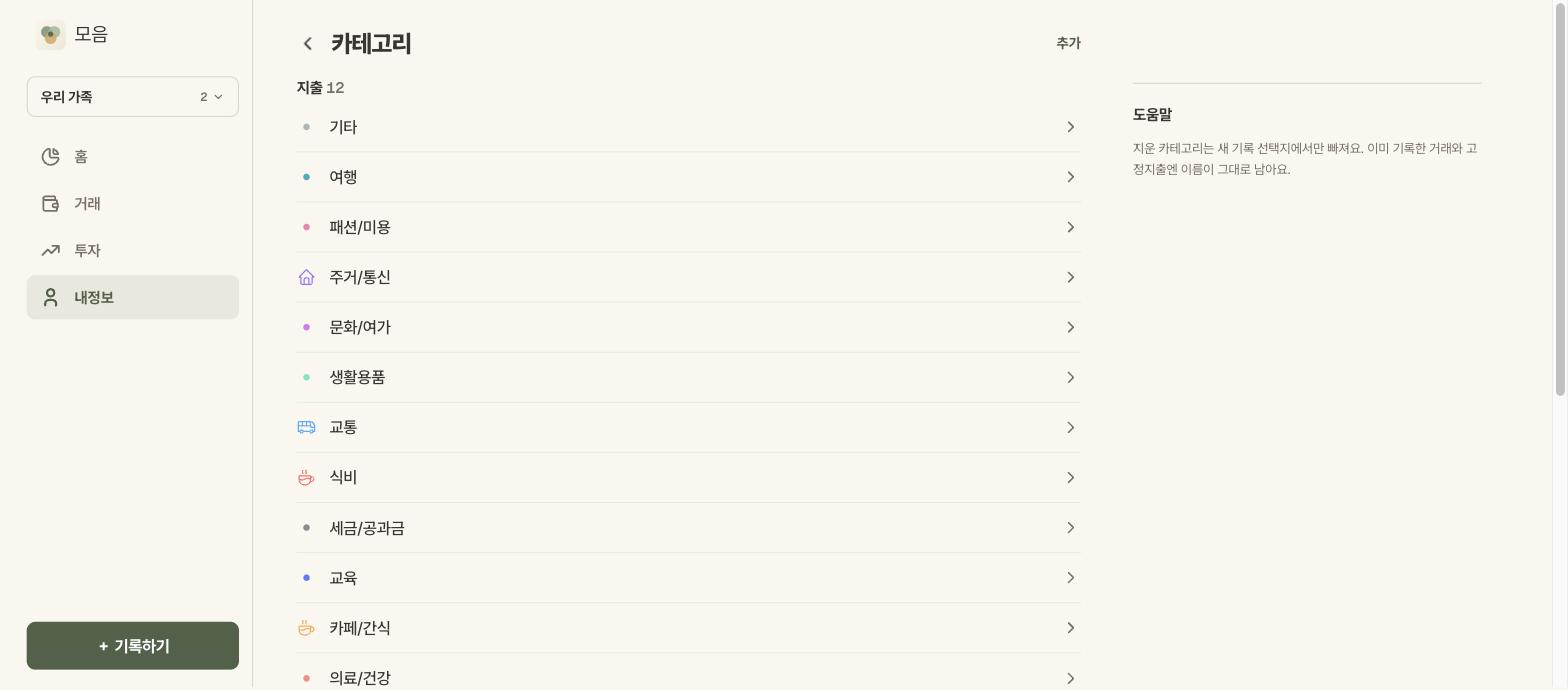
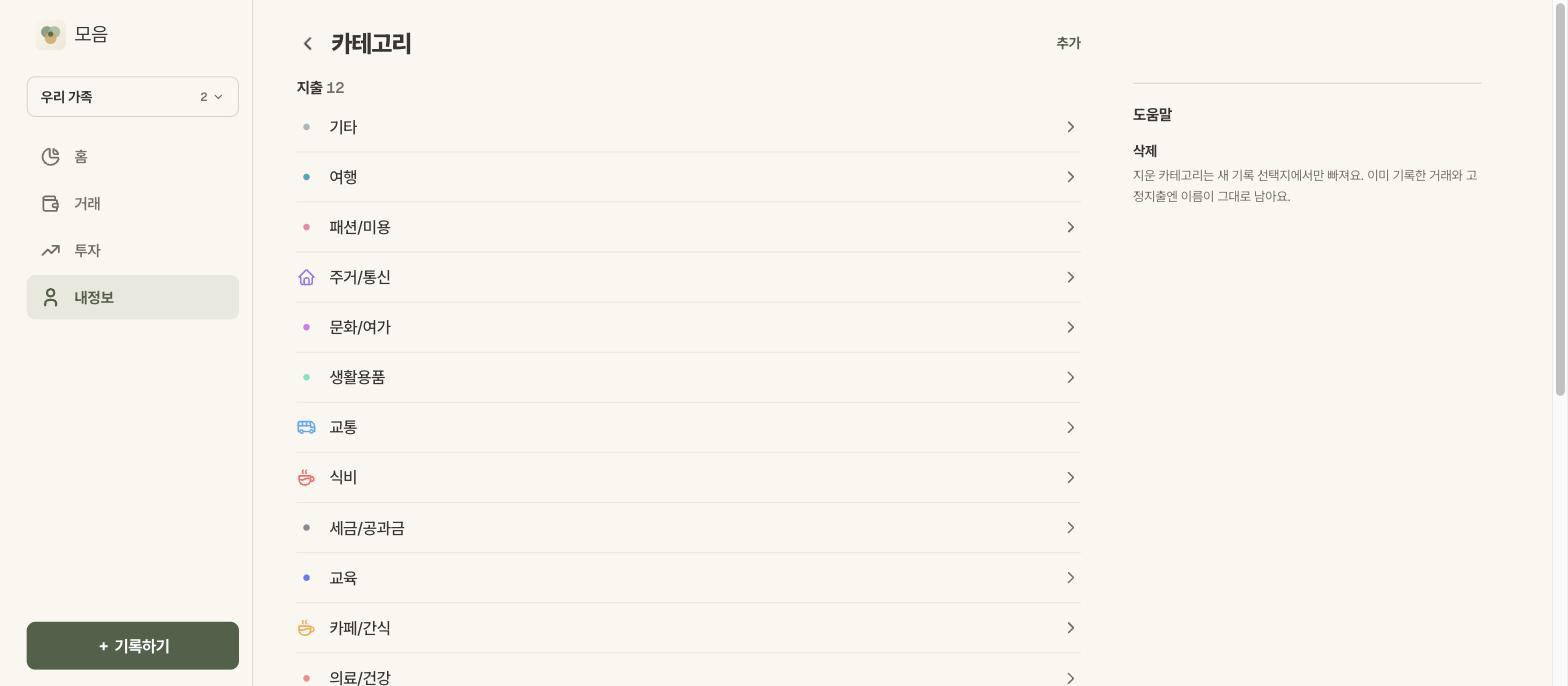
fix: 고정지출 요약 실패에도 목록을 남기고 월 연타가 빠지지 않게
배치4 S6 감사(Codex · 서브에이전트) 반영.
- 월 요약은 hero·레일만 SectionBoundary, 행은 같은 캐시를 비-Suspense 로 읽어
  요약이 늦거나 실패해도 수정 진입이 남는다. 경계는 선택 월이 바뀌면 실패를 푼다(resetKey)
- 월은 즉시 바꾸고 요약은 useDeferredValue — 연타가 이전 값 기준으로 겹치지 않고, 새 달 전엔 흐리게
- 관리 목록 한 페이지 100 — 개수·분류 섹션·기록/미기록이 불러온 페이지 기준으로 어긋나지 않게
- 행 앞 글리프 stroke 2(DESIGN §4) · aria-hidden, 도움말 레일 aside, 카테고리 레일도 FormGuide
- 고정지출 행 chevron, 미기록 0 초과는 본문색, 뒤로 = 내정보, en "Fixed in {month}"

diff --git a/src/_sections/fixed/fixed-section.tsx b/src/_sections/fixed/fixed-section.tsx
@@ -1,9 +1,10 @@
 "use client";
 
 import { Box, Stack, Text } from "@mantine/core";
-import { useSuspenseQuery } from "@tanstack/react-query";
+import { keepPreviousData, useQuery, useSuspenseQuery } from "@tanstack/react-query";
+import { useParams } from "next/navigation";
 import { useTranslations } from "next-intl";
-import { useState, useTransition } from "react";
+import { useDeferredValue, useState } from "react";
 
 import { queryKeys } from "_constants/queries";
 import AccentLink from "_features/common/components/accent-link";
@@ -28,10 +29,12 @@ import { fmt } from "_utilities/fmt";
 /**
  * 고정지출 관리 (plan/4.md, Figma 67:1285) — 선택 월 사용 합계 hero + 행마다 이번 달 사용액.
  * 백엔드 고정지출엔 예정 금액이 없어(이름·결제일·카테고리만) 예정 합계는 두지 않는다.
- * 월 요약은 보조 조회라 SectionBoundary 로 감싸고, 월 이동은 transition 으로 이전 화면을 유지한다.
+ * 월 요약은 보조 조회 — hero·레일만 SectionBoundary 로 감싸고, 행(수정 진입)은 요약이 늦거나 실패해도 남긴다.
  */
 export default function FixedSection() {
   const t = useTranslations("fixed");
+  const monthLabel = useMonthLabel();
+  const { locale } = useParams<{ locale: string }>();
   const { items, hasNextPage, fetchNextPage, isFetchingNextPage } = useFixedSearch();
 
   const [opened, setOpened] = useState(false);
@@ -41,16 +44,19 @@ export default function FixedSection() {
     setOpened(true);
   };
 
-  // 선택 월(YYYY-MM) — 바꾸는 동안 이전 달 화면을 두고 새 달이 오면 교체(스켈레톤 깜빡임 없음)
+  // 선택 월(YYYY-MM)은 바로 바꾸고(연타해도 달이 빠지지 않게) 요약은 지연값 — 새 달이 오기 전까지 이전 달을 흐리게 둔다
+  // (realized-pnl-panel 과 같은 방식)
   const [month, setMonth] = useState<string>(() => defaultYearMonth());
-  const [, startTransition] = useTransition();
-  const changeMonth = (next: string) => startTransition(() => setMonth(next));
+  const shownMonth = useDeferredValue(month);
+  const stale = month !== shownMonth;
 
   return (
     <div className="moeum-main-rail">
       <Stack gap={0}>
         <SubHeader
           title={t("list_title")}
+          // 내정보 "관리"의 하위 화면 — 새로고침·직접 진입에서도 뒤로 = 내정보 (멤버 화면과 같게)
+          back={`/${locale}/settings`}
           right={
             <AccentLink variant="header" onClick={() => openSheet()}>
               {t("add")}
@@ -58,15 +64,18 @@ export default function FixedSection() {
           }
         />
         <Box pt={8} pb={4} ml={-8}>
-          <MonthPicker value={month} onChange={changeMonth} />
+          <MonthPicker value={month} onChange={setMonth} />
         </Box>
 
         {items.length === 0 ? (
           <EmptyText message={t("empty")} action={{ label: t("add"), onClick: () => openSheet() }} />
         ) : (
-          <SectionBoundary loading={<SectionSkeleton hero rows={4} />}>
-            <FixedMonthBody month={month} items={items} onClickRow={openSheet} />
-          </SectionBoundary>
+          <Box style={{ opacity: stale ? 0.5 : 1 }}>
+            <SectionBoundary loading={<SectionSkeleton hero />} resetKey={shownMonth}>
+              <FixedMonthHero month={shownMonth} items={items} />
+            </SectionBoundary>
+            <FixedMonthList month={shownMonth} items={items} onClickRow={openSheet} />
+          </Box>
         )}
 
         <InfiniteSentinel hasNextPage={hasNextPage} isFetchingNextPage={isFetchingNextPage} onLoadMore={fetchNextPage} />
@@ -81,9 +90,9 @@ export default function FixedSection() {
       </Stack>
 
       {items.length > 0 && (
-        <Box visibleFrom="lg" pt={48}>
-          <SectionBoundary loading={<SectionSkeleton rows={3} />}>
-            <FixedMonthRail month={month} items={items} />
+        <Box visibleFrom="lg" pt={48} style={{ opacity: stale ? 0.5 : 1 }}>
+          <SectionBoundary title={monthLabel(shownMonth)} loading={<SectionSkeleton rows={3} />} resetKey={shownMonth}>
+            <FixedMonthRail month={shownMonth} items={items} />
           </SectionBoundary>
         </Box>
       )}
@@ -91,18 +100,37 @@ export default function FixedSection() {
   );
 }
 
-/** 선택 월 요약 — 사용 합계 · 기록/미기록(보관 제외 활성 항목 중 사용액 유무) */
-function useFixedMonth(month: string, items: FixedListItemType[]) {
-  const { data } = useSuspenseQuery(queryKeys.fixed.monthlySummary(month));
-  const usages = data.body.data.usages;
+/** 월 요약 집계 — 사용 합계 · 기록/미기록(보관 제외 활성 항목 중 사용액 유무) */
+function summarize(usages: Record<string, number>, items: FixedListItemType[]) {
   const active = items.filter((it) => !it.isArchived);
   // 사용 합계는 usages 전부(지운 항목의 이번 달 사용액도 포함 — 백엔드 합계와 같게)
   const used = Object.values(usages).reduce((sum, v) => sum + v, 0);
   const unrecorded = active.filter((it) => !usages[it.fixedId]).length;
-  return { usages, used, recorded: active.length - unrecorded, unrecorded };
+  return { used, recorded: active.length - unrecorded, unrecorded };
 }
 
-function FixedMonthBody({
+function useFixedMonth(month: string, items: FixedListItemType[]) {
+  const { data } = useSuspenseQuery(queryKeys.fixed.monthlySummary(month));
+  return summarize(data.body.data.usages, items);
+}
+
+function FixedMonthHero({ month, items }: { month: string; items: FixedListItemType[] }) {
+  const t = useTranslations("fixed");
+  const monthLabel = useMonthLabel();
+  const { used, recorded, unrecorded } = useFixedMonth(month, items);
+
+  return (
+    <HeroAmount compact label={t("month_total", { month: monthLabel(month) })} amount={used}>
+      {/* 데스크톱은 레일이 기록·미기록을 말한다 */}
+      <Text hiddenFrom="lg" c="dimmed" style={{ fontSize: 13, lineHeight: "19px" }}>
+        {t("summary_caption", { recorded, count: unrecorded })}
+      </Text>
+    </HeroAmount>
+  );
+}
+
+/** 목록 — 사용액은 hero 와 같은 캐시를 비-Suspense 로 읽는다(요약이 없으면 금액만 비고 행·수정 진입은 그대로) */
+function FixedMonthList({
   month,
   items,
   onClickRow,
@@ -112,46 +140,38 @@ function FixedMonthBody({
   onClickRow: (fixedId: string) => void;
 }) {
   const t = useTranslations("fixed");
-  const monthLabel = useMonthLabel();
-  const { usages, used, recorded, unrecorded } = useFixedMonth(month, items);
+  const { data } = useQuery({ ...queryKeys.fixed.monthlySummary(month), placeholderData: keepPreviousData });
+  const usages = data?.body.data.usages;
 
   return (
-    <>
-      <HeroAmount compact label={t("month_total", { month: monthLabel(month) })} amount={used}>
-        {/* 데스크톱은 레일이 기록·미기록을 말한다 */}
-        <Text hiddenFrom="lg" c="dimmed" style={{ fontSize: 13, lineHeight: "19px" }}>
-          {t("summary_caption", { recorded, count: unrecorded })}
-        </Text>
-      </HeroAmount>
-
-      <Section
-        title={
-          <>
-            {t("list_title")}{" "}
-            <Text component="span" inherit c="dimmed" className="moeum-mono" fw={600}>
-              {items.length}
-            </Text>
-          </>
-        }
-      >
-        {items.map((it, i) => {
-          const value = usages[it.fixedId] ?? 0;
-          return (
-            <ListRow
-              key={it.fixedId}
-              tall
-              title={it.name}
-              lead={{ icon: isKnownIcon(it.icon) ? it.icon : it.categoryIcon, color: it.color ?? it.categoryColor }}
-              meta={[t("day_format", { day: it.dayOfMonth }), it.categoryName].filter(Boolean).join(" · ")}
-              value={fmt(value)}
-              valueColor={amountColor(value, "text")}
-              last={i === items.length - 1}
-              onClick={() => onClickRow(it.fixedId)}
-            />
-          );
-        })}
-      </Section>
-    </>
+    <Section
+      title={
+        <>
+          {t("list_title")}{" "}
+          <Text component="span" inherit c="dimmed" className="moeum-mono" fw={600}>
+            {items.length}
+          </Text>
+        </>
+      }
+    >
+      {items.map((it, i) => {
+        const value = usages?.[it.fixedId] ?? 0;
+        return (
+          <ListRow
+            key={it.fixedId}
+            tall
+            title={it.name}
+            lead={{ icon: isKnownIcon(it.icon) ? it.icon : it.categoryIcon, color: it.color ?? it.categoryColor }}
+            meta={[t("day_format", { day: it.dayOfMonth }), it.categoryName].filter(Boolean).join(" · ")}
+            value={usages ? fmt(value) : undefined}
+            valueColor={amountColor(value, "text")}
+            chevron
+            last={i === items.length - 1}
+            onClick={() => onClickRow(it.fixedId)}
+          />
+        );
+      })}
+    </Section>
   );
 }
 
@@ -164,7 +184,7 @@ function FixedMonthRail({ month, items }: { month: string; items: FixedListItemT
     <Section title={monthLabel(month)}>
       <ListRow title={t("used_total")} value={fmt(used)} valueColor={amountColor(used, "text")} />
       <ListRow title={t("recorded")} value={t("count_unit", { count: recorded })} valueColor={amountColor(recorded, "text")} />
-      <ListRow title={t("unrecorded")} value={t("count_unit", { count: unrecorded })} valueColor="dim" last />
+      <ListRow title={t("unrecorded")} value={t("count_unit", { count: unrecorded })} valueColor={amountColor(unrecorded, "text")} last />
     </Section>
   );
 }

diff --git a/src/_sections/category/category-section.tsx b/src/_sections/category/category-section.tsx
@@ -1,6 +1,7 @@
 "use client";
 
 import { Box, Stack, Text } from "@mantine/core";
+import { useParams } from "next/navigation";
 import { useTranslations } from "next-intl";
 import { useState } from "react";
 
@@ -9,6 +10,7 @@ import { useCategorySearch } from "_features/category/hooks/use-sub/use-search";
 import type { CategoryListItemType } from "_features/category/types";
 import AccentLink from "_features/common/components/accent-link";
 import EmptyText from "_features/common/components/empty-text";
+import FormGuide from "_features/common/components/form-guide";
 import FormSheet from "_features/common/components/form-sheet";
 import ListRow from "_features/common/components/list-row";
 import Section from "_features/common/components/section";
@@ -22,8 +24,8 @@ import { InfiniteSentinel } from "_libraries/query/infinite-sentinel";
 export default function CategorySection() {
   const t = useTranslations("category");
   const tKind = useTranslations("enum.category-kind");
-  const tg = useTranslations("general.common");
 
+  const { locale } = useParams<{ locale: string }>();
   const [opened, setOpened] = useState(false);
   const [editId, setEditId] = useState<string | undefined>(undefined);
   const openSheet = (id?: string) => {
@@ -54,6 +56,8 @@ export default function CategorySection() {
       <Stack gap={0}>
         <SubHeader
           title={t("list_title")}
+          // 내정보 "관리"의 하위 화면 — 새로고침·직접 진입에서도 뒤로 = 내정보 (멤버 화면과 같게)
+          back={`/${locale}/settings`}
           right={
             <AccentLink variant="header" onClick={() => openSheet()}>
               {t("add")}
@@ -95,11 +99,7 @@ export default function CategorySection() {
 
       {/* 데스크톱 레일 — 삭제 규칙을 미리 알려 둔다(개수는 섹션 제목이 말함) */}
       <Box visibleFrom="lg" pt={48}>
-        <Section title={tg("guide")}>
-          <Text c="dimmed" pt={8} style={{ fontSize: 12, lineHeight: 1.6 }}>
-            {t("guide.delete_body")}
-          </Text>
-        </Section>
+        <FormGuide items={[{ title: t("guide.delete_title"), body: t("guide.delete_body") }]} />
       </Box>
     </div>
   );

diff --git a/src/_features/common/components/section-boundary.tsx b/src/_features/common/components/section-boundary.tsx
@@ -9,6 +9,7 @@ import Section from "./section";
 import SectionSkeleton from "./section-skeleton";
 
 interface CatcherProps {
+  resetKey?: unknown;
   onReset: () => void;
   fallback: (retry: () => void) => ReactNode;
   children: ReactNode;
@@ -27,6 +28,11 @@ class ErrorCatcher extends Component<CatcherProps, { failed: boolean }> {
     this.setState({ failed: false });
   };
 
+  // 조회 조건(선택 월 등)이 바뀌면 실패를 풀고 새 조건으로 다시 그린다 — 한 달 실패가 다른 달까지 막지 않게
+  componentDidUpdate(prev: CatcherProps) {
+    if (this.state.failed && prev.resetKey !== this.props.resetKey) this.retry();
+  }
+
   render() {
     return this.state.failed ? this.props.fallback(this.retry) : this.props.children;
   }
@@ -37,6 +43,8 @@ interface SectionBoundaryProps {
   title?: string;
   /** 로딩 자리표시. 기본 = 행 1개 스켈레톤 */
   loading?: ReactNode;
+  /** 바뀌면 실패 상태를 초기화(예: 선택 월) */
+  resetKey?: unknown;
   children: ReactNode;
 }
 
@@ -45,7 +53,7 @@ interface SectionBoundaryProps {
  * (plan/2.md 에러 상태). 한 섹션 조회 실패가 (user)/error.tsx 로 화면 전체를 갈아치우지 않게 한다.
  * 화면의 주 쿼리(hero 데이터)는 감싸지 않는다 — 그건 화면 에러(재시도 포함)가 맞다.
  */
-export default function SectionBoundary({ title, loading, children }: SectionBoundaryProps) {
+export default function SectionBoundary({ title, loading, resetKey, children }: SectionBoundaryProps) {
   const t = useTranslations("general.common");
   const te = useTranslations("error");
 
@@ -53,6 +61,7 @@ export default function SectionBoundary({ title, loading, children }: SectionBou
     <QueryErrorResetBoundary>
       {({ reset }) => (
         <ErrorCatcher
+          resetKey={resetKey}
           onReset={reset}
           fallback={(retry) => {
             const message = (

diff --git a/src/_features/common/components/form-guide.tsx b/src/_features/common/components/form-guide.tsx
@@ -21,22 +21,25 @@ interface FormGuideProps {
 export default function FormGuide({ items }: FormGuideProps) {
   const tg = useTranslations("general.common");
 
+  // 보조 콘텐츠 랜드마크 — 스크린리더가 폼과 따로 건너뛸 수 있게
   return (
-    <Section title={tg("guide")}>
-      {items.map((it, i) => (
-        <Box
-          key={it.title}
-          py={10}
-          style={{ borderBottom: i < items.length - 1 ? "1px solid var(--moeum-hair-2)" : undefined }}
-        >
-          <Text fw={700} c="var(--moeum-text)" style={{ fontSize: 13, lineHeight: "19px" }}>
-            {it.title}
-          </Text>
-          <Text c="dimmed" mt={4} style={{ fontSize: 12, lineHeight: 1.6 }}>
-            {it.body}
-          </Text>
-        </Box>
-      ))}
-    </Section>
+    <Box component="aside" aria-label={tg("guide")}>
+      <Section title={tg("guide")}>
+        {items.map((it, i) => (
+          <Box
+            key={it.title}
+            py={10}
+            style={{ borderBottom: i < items.length - 1 ? "1px solid var(--moeum-hair-2)" : undefined }}
+          >
+            <Text fw={700} c="var(--moeum-text)" style={{ fontSize: 13, lineHeight: "19px" }}>
+              {it.title}
+            </Text>
+            <Text c="dimmed" mt={4} style={{ fontSize: 12, lineHeight: 1.6 }}>
+              {it.body}
+            </Text>
+          </Box>
+        ))}
+      </Section>
+    </Box>
   );
 }

diff --git a/src/_features/common/components/list-row.tsx b/src/_features/common/components/list-row.tsx
@@ -230,13 +230,14 @@ export default function ListRow({
   );
 }
 
-/** 18px 글리프(stroke 1.5 — Figma Icon/* 와 같은 굵기). 아이콘 없는·목록 밖 이름은 요술봉 대신 자리만 맞추고 색 점 */
+/** 18px 글리프(stroke 2 — DESIGN §4 리스트 아이콘). 아이콘 없는·목록 밖 이름은 요술봉 대신 자리만 맞추고 색 점 */
 function LeadGlyph({ lead }: { lead: ListRowLead }) {
   const color = lead.color ?? "var(--moeum-text-dim)";
   return (
-    <Box w={18} h={18} style={{ flexShrink: 0, display: "flex", alignItems: "center", justifyContent: "center", color }}>
+    // 장식 — 제목이 이미 이름을 말한다
+    <Box aria-hidden w={18} h={18} style={{ flexShrink: 0, display: "flex", alignItems: "center", justifyContent: "center", color }}>
       {isKnownIcon(lead.icon) ? (
-        <DynamicIcon name={lead.icon} size={18} stroke={1.5} />
+        <DynamicIcon name={lead.icon} size={18} stroke={2} />
       ) : (
         <Box w={6} h={6} style={{ borderRadius: 3, background: color }} />
       )}

diff --git a/src/_features/category/hooks/use-sub/use-search.ts b/src/_features/category/hooks/use-sub/use-search.ts
@@ -3,7 +3,8 @@ import { useMemo } from "react";
 import { useCategoryInfiniteList } from "_features/category/queries/use-query";
 import type { CategoryListItemType } from "_features/category/types";
 
-const PAGE_SIZE = 30;
+// 관리 목록은 개수·분류 섹션·기록/미기록이 전체 기준이어야 해서 한 번에 넉넉히(백엔드 상한 200). 넘치면 센티널이 이어 받는다
+const PAGE_SIZE = 100;
 
 /** 카테고리 전체(지출·수입) — 목록은 분류별 섹션으로 나눠 보여서 필터 없이 받는다 (배치4). 백엔드 정렬 = 분류 → 정렬 → 등록순 */
 export function useCategorySearch() {

diff --git a/src/_features/fixed/hooks/use-sub/use-search.ts b/src/_features/fixed/hooks/use-sub/use-search.ts
@@ -3,7 +3,8 @@ import { useMemo } from "react";
 import { useFixedInfiniteList } from "_features/fixed/queries/use-query";
 import type { FixedListItemType } from "_features/fixed/types";
 
-const PAGE_SIZE = 30;
+// 관리 목록은 개수·분류 섹션·기록/미기록이 전체 기준이어야 해서 한 번에 넉넉히(백엔드 상한 200). 넘치면 센티널이 이어 받는다
+const PAGE_SIZE = 100;
 
 export function useFixedSearch() {
   const { data, hasNextPage, fetchNextPage, isFetchingNextPage } = useFixedInfiniteList({}, PAGE_SIZE);
